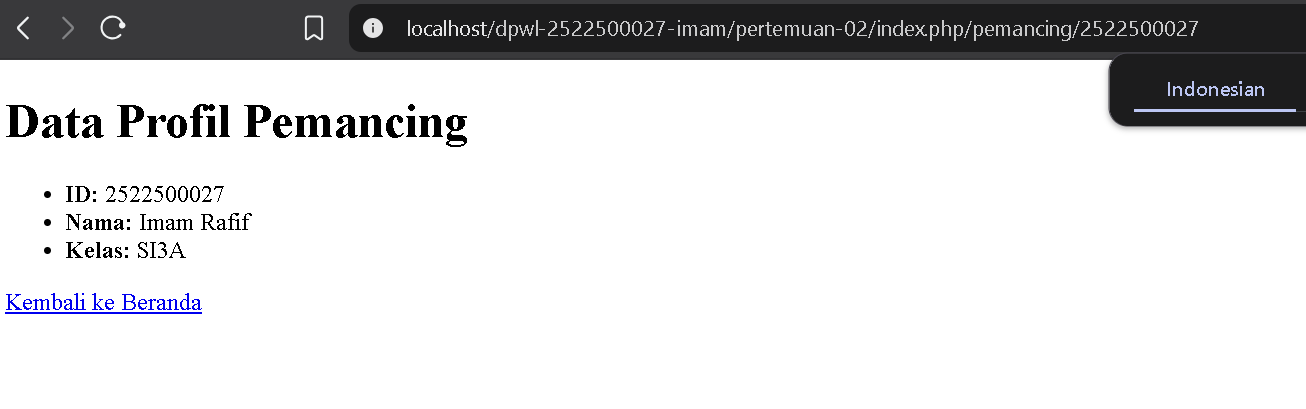
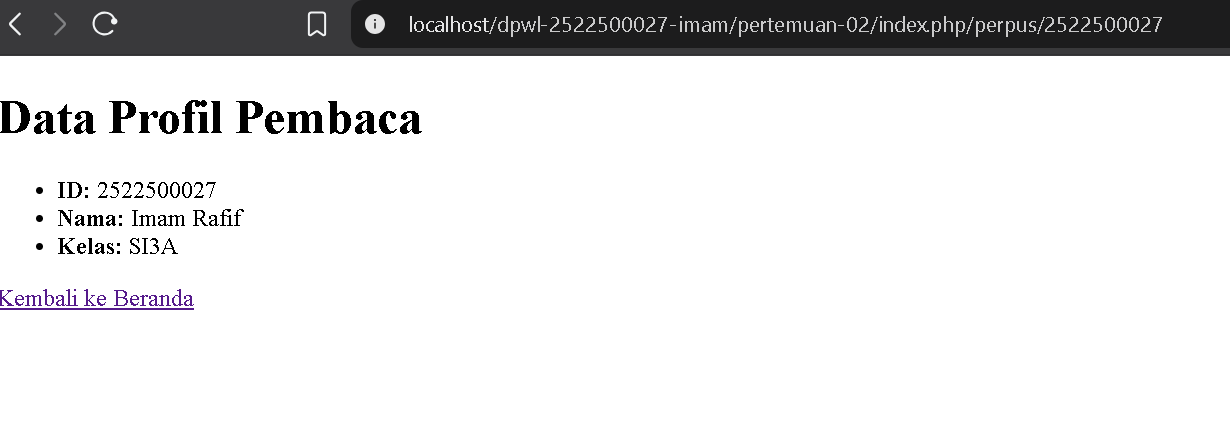
selesai

diff --git a/pertemuan-02/application/controllers/Home.php b/pertemuan-02/application/controllers/Home.php
@@ -15,15 +15,15 @@ class Home extends Controller
         $this->view('home/info', ['topik' => $topik]);
     }
 
-    public function pemancing(string $id = '2522500027'): void
+    public function perpus(string $id = '2522500027'): void
     {
         $data = [
-            'title' => 'Detail Pemancing',
+            'title' => 'Detail Perpus',
             'id'   => $id,
-            'nama'  => 'Imam Rafif',
+            'nama'  => 'Imam Rafif ',
             'kelas' => 'SI3A'
         ];
 
-        $this->view('home/pemancing', $data);
+        $this->view('home/perpus', $data);
     }
 }

diff --git a/pertemuan-02/application/views/home/perpus.php b/pertemuan-02/application/views/home/perpus.php
@@ -5,7 +5,7 @@
     <title><?= $title; ?></title>
 </head>
 <body>
-    <h1>Data Profil Pemancing</h1>
+    <h1>Data Profil Pembaca</h1>
     <ul>
         <li><strong>ID:</strong> <?= $id; ?></li>
         <li><strong>Nama:</strong> <?= $nama; ?></li>

diff --git a/pertemuan-02/application/config/routes.php b/pertemuan-02/application/config/routes.php
@@ -4,4 +4,4 @@ $route = [];
 
 $route['default_controller'] = 'home';
 $route['info/(:any)'] = 'home/info/$1';
-$route['pemancing/(:num)'] = 'home/pemancing/$1';
+$route['perpus/(:num)'] = 'home/perpus/$1';

diff --git a/pertemuan-02/application/config/config.php b/pertemuan-02/application/config/config.php
@@ -1,4 +1,4 @@
 <?php
 $config = [];
-$config['base_url'] = 'http://localhost/dpwl-2522500027/';
+$config['base_url'] = 'http://localhost/dpwl-2522500027-imam/';
 $config['index_page'] = 'index.php';
